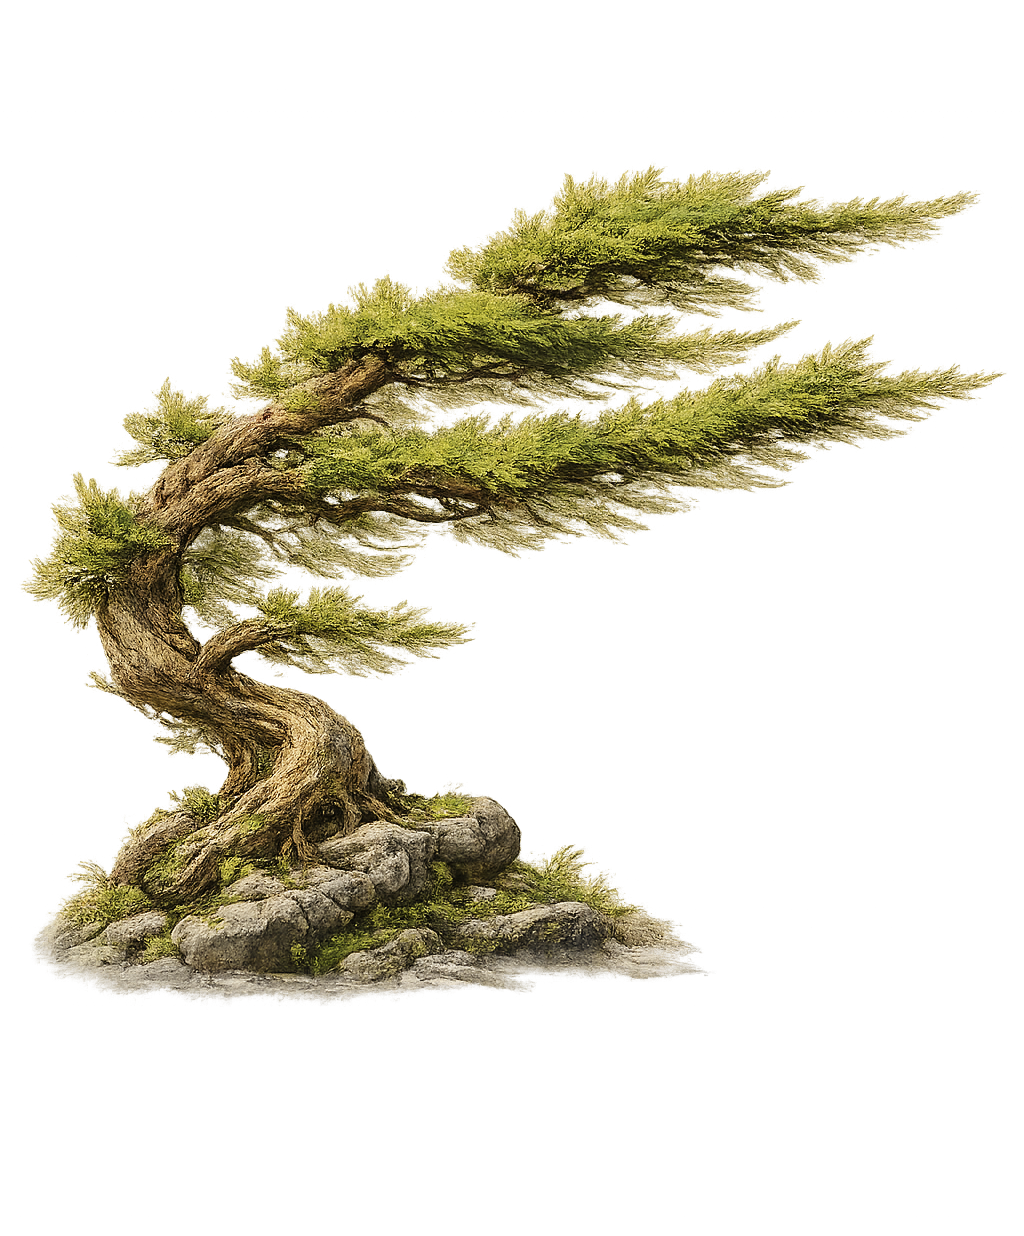
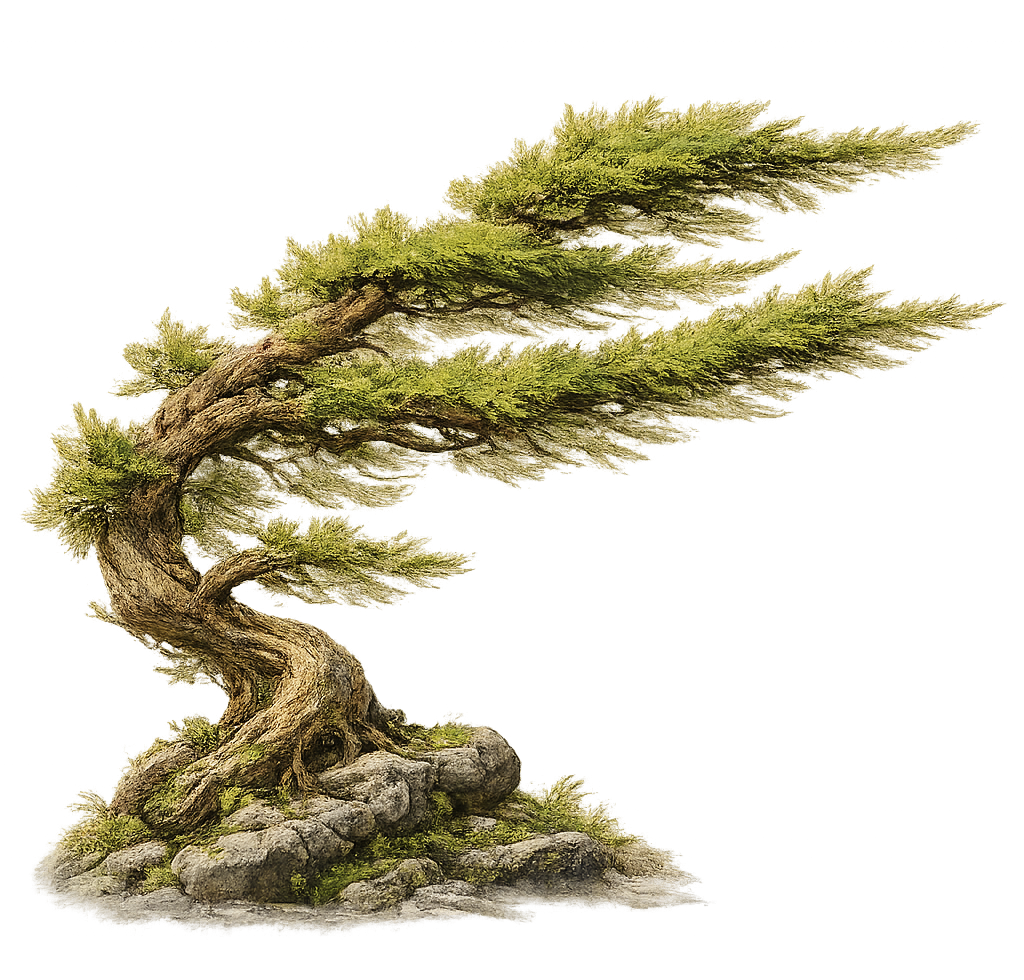
Refine post images and layout

diff --git a/src/styles/global.css b/src/styles/global.css
@@ -53,7 +53,8 @@
 	--text: #111111;
 	--muted: #5f5a4b;
 	--rule: #c7bfa5;
-	--link: #111111;
+	--link: var(--muted);
+	--link-underline: var(--muted);
 	--surface: #f8f2df;
 	--shadow: rgba(20, 17, 9, 0.1);
 	--serif: et-book, Palatino, "Palatino Linotype", "Palatino LT STD", "Book Antiqua", Georgia, serif;
@@ -68,7 +69,8 @@
 	--text: #fffff8;
 	--muted: #bdb394;
 	--rule: #494430;
-	--link: #fffff8;
+	--link: var(--muted);
+	--link-underline: var(--muted);
 	--surface: #191816;
 	--shadow: rgba(0, 0, 0, 0.35);
 	color-scheme: dark;
@@ -108,7 +110,7 @@ body {
 }
 
 .top-header {
-	width: min(760px, 100%);
+	width: min(840px, 100%);
 	margin: 0 auto;
 	padding: 2.4rem 0 3.6rem;
 	contain: layout;
@@ -259,7 +261,7 @@ body {
 
 .content-column {
 	position: relative;
-	width: min(760px, 100%);
+	width: min(840px, 100%);
 	margin: 0 auto;
 	padding-top: 0;
 }
@@ -369,7 +371,7 @@ a {
 	background:
 		linear-gradient(var(--background), var(--background)),
 		linear-gradient(var(--background), var(--background)),
-		linear-gradient(var(--text), var(--text));
+		linear-gradient(var(--link-underline), var(--link-underline));
 	background-position: 0% 93%, 100% 93%, 0% 93%;
 	background-repeat: no-repeat, no-repeat, repeat-x;
 	background-size: 0.05em 1px, 0.05em 1px, 1px 1px;
@@ -382,6 +384,11 @@ a {
 
 a:hover {
 	color: var(--muted);
+}
+
+.post-content a:hover,
+.post-content a:focus-visible {
+	color: var(--text);
 }
 
 hr,
@@ -410,6 +417,7 @@ hr,
 
 .post-item-title {
 	display: inline-block;
+	color: var(--text);
 	font-size: 1.58rem;
 	font-weight: 700;
 	line-height: 1.25;
@@ -452,7 +460,7 @@ hr,
 }
 
 .post-header {
-	margin-bottom: 1.15rem;
+	margin-bottom: 3.25rem;
 }
 
 .post-layout {
@@ -460,7 +468,7 @@ hr,
 }
 
 .post-layout article {
-	width: min(760px, 100%);
+	width: min(840px, 100%);
 	margin: 0 auto;
 	min-width: 0;
 }
@@ -468,8 +476,8 @@ hr,
 .post-toc {
 	position: fixed;
 	top: 2rem;
-	left: 1rem;
-	width: 210px;
+	left: 0.75rem;
+	width: 178px;
 	height: calc(100vh - 4rem);
 	overflow: hidden;
 	padding: 0.35rem 0;
@@ -510,7 +518,7 @@ hr,
 	min-height: 1.8rem;
 	color: var(--muted);
 	font-family: var(--old-style);
-	font-size: 0.95rem;
+	font-size: 0.88rem;
 	line-height: 1.2;
 	background: none;
 	text-shadow: none;
@@ -558,6 +566,12 @@ hr,
 	transition: opacity 160ms ease, transform 160ms ease;
 }
 
+.post-toc a:first-child .post-toc-text {
+	font-size: 0.78rem;
+	letter-spacing: 0.055em;
+	text-transform: uppercase;
+}
+
 .post-toc a:hover .post-toc-text,
 .post-toc a:focus-visible .post-toc-text,
 .post-toc a.is-passed .post-toc-text {
@@ -570,9 +584,9 @@ hr,
 	transform: translateX(0.25rem);
 }
 
-@media (max-width: 1180px) {
+@media (max-width: 1280px) {
 	.post-page-column {
-		width: min(760px, 100%);
+		width: min(100%, 840px);
 	}
 
 	.post-layout {
@@ -586,7 +600,7 @@ hr,
 
 .post-header .page-title,
 .post-header .subtitle {
-	margin-bottom: 0.6rem;
+	margin-bottom: 1.25rem;
 }
 
 .post-date {
@@ -595,7 +609,7 @@ hr,
 	font-family: var(--old-style);
 	font-size: 1.22rem;
 	line-height: 1.88rem;
-	margin-top: 0.2rem;
+	margin-top: 0.45rem;
 }
 
 .post-endmark {
@@ -769,6 +783,34 @@ figure {
 	margin-top: 0.6rem;
 }
 
+.post-content > .image-plate:first-child {
+	float: right;
+	width: clamp(13rem, 34vw, 17rem);
+	margin: 0.2rem 0 1rem 1.35rem;
+	text-align: left;
+	shape-outside: polygon(22% 0, 100% 0, 100% 100%, 17% 100%, 8% 82%, 14% 58%, 4% 38%, 14% 18%);
+	-webkit-shape-outside: polygon(22% 0, 100% 0, 100% 100%, 17% 100%, 8% 82%, 14% 58%, 4% 38%, 14% 18%);
+	shape-margin: 0.75rem;
+	-webkit-shape-margin: 0.75rem;
+}
+
+.post-content > .image-plate:first-child img,
+.post-content > .image-plate:first-child picture {
+	width: 100%;
+	max-width: none;
+	margin: 0;
+}
+
+.post-content > h2 {
+	clear: both;
+}
+
+@media (max-width: 960px) {
+	.post-content > .image-plate:first-child {
+		width: clamp(11.5rem, 34vw, 14rem);
+	}
+}
+
 figcaption,
 em {
 	color: var(--muted);
@@ -801,6 +843,14 @@ pre {
 		width: min(100% - 1.5rem, 760px);
 	}
 
+	.post-content > .image-plate:first-child {
+		float: none;
+		width: min(100%, 420px);
+		margin: 0 auto 1rem;
+		text-align: center;
+		shape-outside: none;
+	}
+
 	.site-shell {
 		display: block;
 	}
@@ -830,7 +880,7 @@ pre {
 	}
 
 	.post-page-column {
-		width: min(760px, 100%);
+		width: min(840px, 100%);
 	}
 
 	.post-layout {

diff --git a/src/content/posts/where-are-all-the-decision-markets.md b/src/content/posts/where-are-all-the-decision-markets.md
@@ -13,7 +13,7 @@ tags:
 <figure class="image-plate">
   <picture>
     <source srcset="/quaking-aspen.png">
-    <img src="/quaking-aspen.png" alt="Quaking aspen trees">
+    <img src="/quaking-aspen.png" alt="Redwood trees">
   </picture>
 </figure>
 